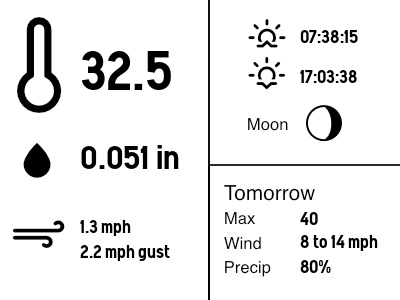
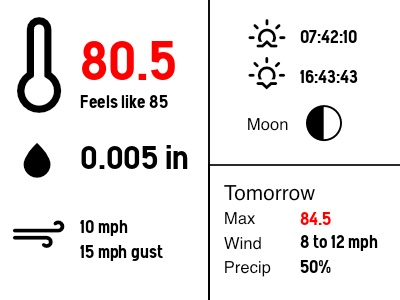
update readme

diff --git a/config_sample.py b/config_sample.py
@@ -4,7 +4,7 @@ class WeatherConfig:
         # Retrieve the following needed values for your location by hitting
         #   https://api.weather.gov/points/LAT,LONG
         #   For example https://api.weather.gov/points/43.3259722,-77.29205599
-        self.wg_frequency_seconds = 600  # fetch new data every 10 mins (600 seconds)
+        self.wg_frequency_seconds = 600  # fetch new data every 10 mins
         self.wg_url = "https://api.weather.gov/gridpoints/STATION/GRID_XY/forecast"  # don't change this
         self.wg_station = ""  # change this instead, e.g. BUF
         self.wg_grid_x_y = ""  # in form 88,65
@@ -12,13 +12,13 @@ class WeatherConfig:
         self.wg_app_name = "My weather app"  # your application name
 
         #  Visual Crossing Astronomical Data API config values
-        self.vc_frequency_seconds = 7200  # fetch new data every 2 hours (7200 seconds)
+        self.vc_frequency_seconds = 7200  # fetch new data every 2 hours
         self.vc_api_url = "https://weather.visualcrossing.com/VisualCrossingWebServices/rest/services/timeline/LOCATION/today?unitGroup=us&elements=sunrise,sunset,moonphase,moonrise,moonset&include=days&key=APIKEY&contentType=json"  # don't change this
         self.vc_location = "City, ST"  # change this
         self.vc_api_key = "API_KEY"  # and this
 
         # Ambient Weather API config values
-        self.aw_frequency_seconds = 60  # fetch new data every minute (60 seconds)
+        self.aw_frequency_seconds = 120  # fetch new data every 2 minutes
         self.aw_url = "https://rt.ambientweather.net/v1/devices/AW_STATION?applicationKey=APPLICATION_KEY&apiKey=API_KEY&limit=1"  # don't change this
         self.aw_station = "YOUR_STATIONS_MAC_ADDRESS"  # change this
         self.aw_api_key = "API_KEY"  # and this

diff --git a/main.py b/main.py
@@ -91,7 +91,7 @@ class InkyWeather:
                 "windspeedmph": 10,
                 "windgustmph": 15,
                 "dailyrainin": 0.005,
-                "feelsLike": 45,
+                "feelsLike": 85,
             }
             return
         try:

diff --git a/README.md b/README.md
@@ -1,14 +1,12 @@
 # Inky wHAT weather display
 
-_Current status: pulls weather and astronomical info from the APIs and generates an image; does not write to the Inky wHat yet._
-
-A weather data display for the Inky wHat e-paper display.
+A weather data display for the Inky wHAT e-paper display.
 
 - Pulls live weather data from the Ambient Weather API
 - Pulls moon phase and sunrise/sunset from the Visual Crossing API
 - Pulls forecast data from the National Weather Service API
 
-![Example image](images/example.jpg "Example image")
+![Example image](images/live_example.jpeg "Example image")
 
 ## How To
 
@@ -16,15 +14,17 @@ You'll need API keys and such from the API providers.
 
 Get the NWS API URL by sending a GET request to https://api.weather.gov/points/LAT,LONG where LAT and LONG are your latitude and longitude separated by a comma. In the resulting payload, you'll find the station ID (3 letter code) and the grid x/y to use.
 
-On the Raspberry Pi on which the Inky wHat is installed:
+Information on setting up and testing your Inky wHAT is at https://learn.pimoroni.com/article/getting-started-with-inky-what
 
-1. git clone https://github.com/pimoroni/inky
-2. git clone https://github.com/skypanther/inkywhat.git
-3. cd ./inkywhat
+On the Raspberry Pi on which the Inky wHAT is installed, in your home directory:
+
+1. `git clone https://github.com/pimoroni/inky`
+2. `git clone https://github.com/skypanther/inkywhat.git`
+3. `cd ./inkywhat`
 4. Create a virtual environment with `python3 -m venv venv`
 5. Activate it with `source venv/bin/activate`
-6. cd `../inky`
-7. `./install.sh`
+6. `cd ../inky`
+7. `./install.sh` and when prompted, do not create a virtual environment; do install the example files.
 8. Reboot when done
 9. Use `sudo raspi-config` to enable both SPI and I2C. The installer is supposed to do this but didn't on my system.
 10. `source inkywhat/venv/bin/activate`
@@ -33,17 +33,17 @@ On the Raspberry Pi on which the Inky wHat is installed:
 13. `sudo apt-get install libopenblas-dev`
 14. `cd inky`
 15. `pip install -r requirements-examples.txt`
-16. Run an Inky wHat sample to be sure your display is working as you expect
+16. Run an Inky wHAT sample to be sure your display is working as you expect.
 17. `cd ~/inkywhat`
 18. Install the required Python dependencies with `pip install -r requirements.txt`
 19. Rename config_sample.py to config.py
 20. In the Weather.gov section, enter your station ID, grid x/y, your email address, and your application's name.
-21. In the Visual Crossing section, enter your city name and two-letter state, and your API key
+21. In the Visual Crossing section, enter your city name and two-letter state, and your API key.
 22. In the Ambient Weather section, enter your station's MAC address, your API key, and your application key.
 23. Save the file.
 24. Run `python main.py`
 
-The frequency of API requests is also configurable. The default values are chosen a) to reflect that the Inky wHat display takes many seconds to refresh and has a limited lifespan of refreshes, b) to be nice to the API providers, and c) to pull data at a rate reasonable to how often it changes. For example, the moon phase will not change significantly over short periods of time. So, the default Visual Crossing API calls are every 2 hours. Likewise, forecast data doesn't change too frequently, so that's fetched every 10 mins. Current conditions change by the second. However, remember the e-ink display can't refresh quickly. So, the default is every minute.
+The frequency of API requests is also configurable. However, the default values are chosen a) to reflect that the Inky wHAT display takes many seconds to refresh and has a limited lifespan of refreshes, b) to be nice to the API providers, and c) to pull data at a rate reasonable to how often it changes. For example, the moon phase will not change significantly over short periods of time. So, the default Visual Crossing API calls are every 2 hours. Likewise, forecast data doesn't change too frequently, so that's fetched every 10 mins. Current conditions change by the second. However, remember the e-ink display can't refresh quickly. So, the default is every 2 minutes.
 
 ### Weather icons
 
